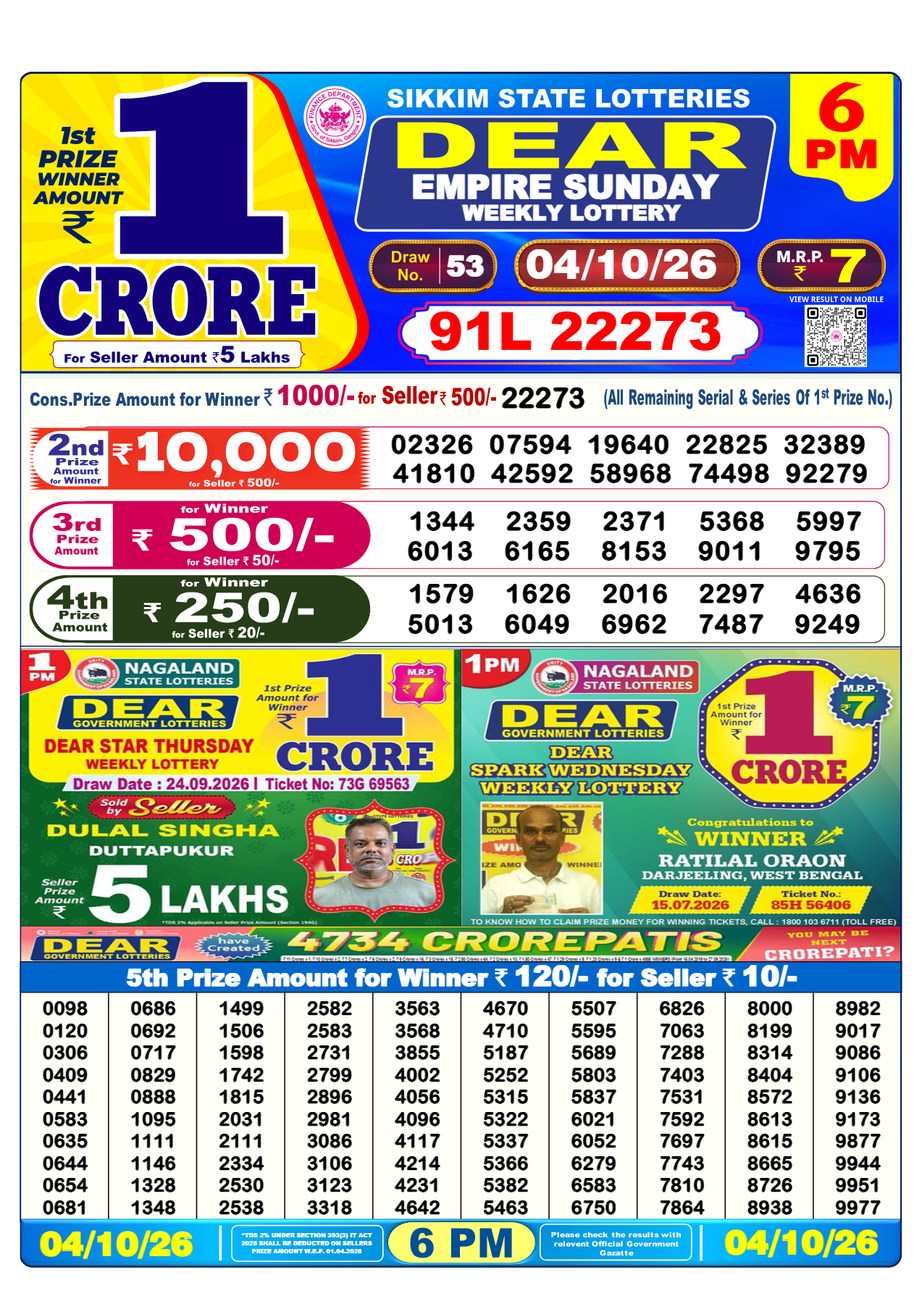
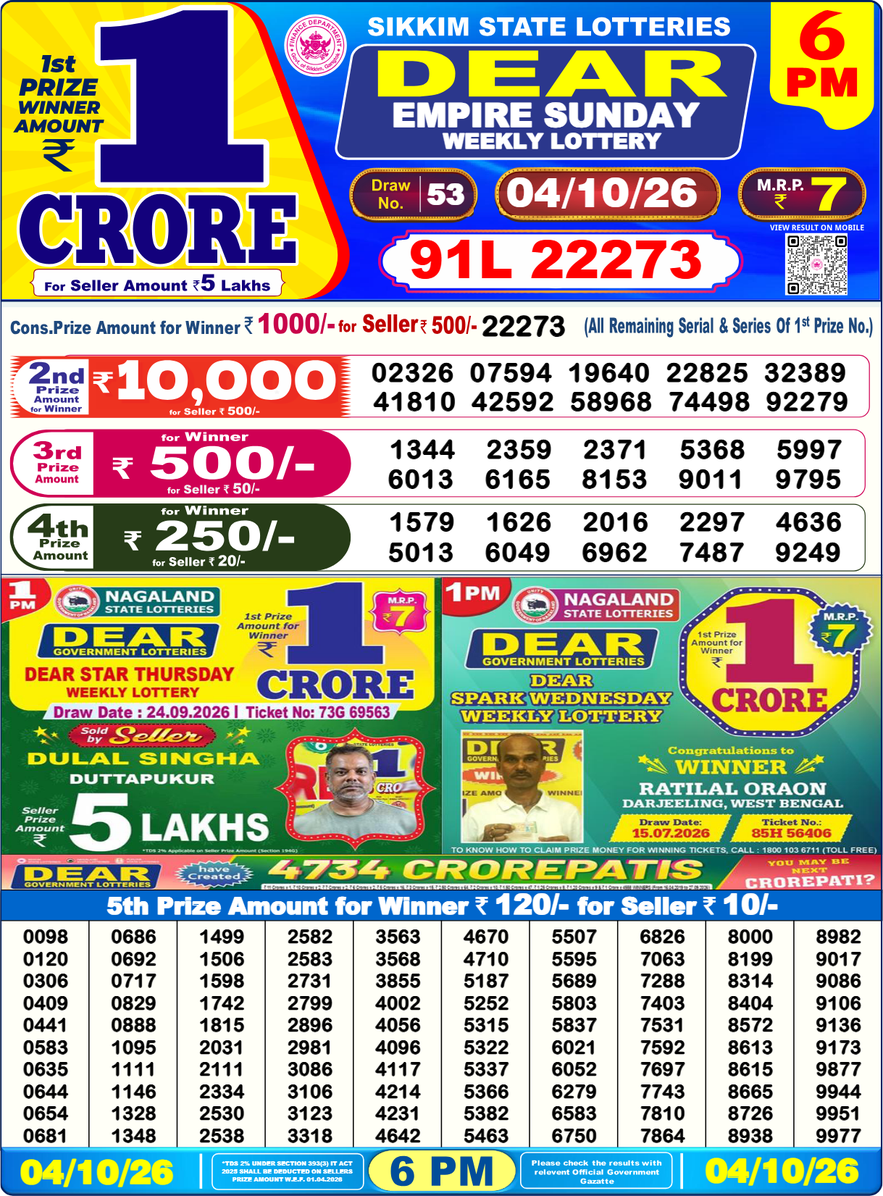
Match reference result layout with draw tabs and first-prize panel

diff --git a/index.html b/index.html
@@ -1,41 +1,42 @@
 <!doctype html>
-<html lang="en"><head>
-<meta charset="utf-8"><meta name="viewport" content="width=device-width,initial-scale=1"><meta name="theme-color" content="#122a30"><title>Lottery Sambad · Daily Results</title>
+<html lang="en-IN"><head>
+<meta charset="utf-8"><meta name="viewport" content="width=device-width,initial-scale=1"><meta name="theme-color" content="#e63223"><title>Lottery Sambad Today · 1 PM, 6 PM &amp; 8 PM Results</title>
 <style>
-:root{color-scheme:light;--ink:#152d33;--muted:#647479;--line:#dfe7e4;--green:#137962}*{box-sizing:border-box}body{margin:0;background:#f3f6f3;color:var(--ink);font:14px/1.5 system-ui,-apple-system,"Segoe UI",sans-serif}button{font:inherit;cursor:pointer}button:focus-visible{outline:3px solid #e8a342;outline-offset:4px}header{background:#122a30;color:white;border-top:4px solid #e6a147}.top{max-width:1250px;margin:auto;padding:24px 26px;display:flex;align-items:center;justify-content:space-between;gap:20px}.brand{display:flex;align-items:center;gap:13px}.mark{width:43px;height:43px;border:1px solid #ffffff30;border-radius:12px;display:grid;place-items:center;color:#f4bf72;background:#ffffff08;font-size:23px}.eyebrow{font-size:10px;letter-spacing:2px;text-transform:uppercase;color:#a9c5c4;margin:0 0 3px}h1{font-size:25px;line-height:1.2;letter-spacing:-.7px;margin:0}.clock{text-align:right}.clock strong{display:block;font-size:17px;font-variant-numeric:tabular-nums}.clock span{color:#b0c6c8;font-size:11px}main{max-width:1250px;margin:auto;padding:27px 26px 24px}.intro{display:flex;justify-content:space-between;align-items:center;gap:16px;margin-bottom:20px}.intro h2{font-size:22px;letter-spacing:-.5px;margin:0 0 2px}.intro p{margin:0;color:var(--muted);font-size:12px}.refresh{border:1px solid #d6dfdb;border-radius:8px;background:white;padding:8px 12px;color:var(--ink);font-size:12px}.refresh:disabled{opacity:.55;cursor:wait}.summary{margin:0 0 18px;display:flex;align-items:center;gap:8px;color:var(--muted);font-size:12px}.dot{width:7px;height:7px;border-radius:50%;background:var(--green);flex:none}.grid{display:grid;grid-template-columns:repeat(3,minmax(0,1fr));gap:18px}.card{background:white;border:1px solid var(--line);border-radius:13px;overflow:hidden;box-shadow:0 3px 14px #173b2c04}.card-top{padding:17px 18px 14px;border-bottom:1px solid #edf1ef;display:flex;justify-content:space-between;gap:10px;align-items:flex-start}.card h3{font-size:16px;letter-spacing:-.2px;margin:0}.draw-time{font-size:12px;color:var(--muted);margin:3px 0 0}.badge{font-size:10px;font-weight:650;white-space:nowrap;border-radius:5px;padding:4px 7px;color:#96651d;background:#fbf2e2}.badge.ready{color:#15725d;background:#e9f5ee}.badge.previous{color:#63737b;background:#edf1f3}.body{padding:13px 13px 0}.preview{width:100%;padding:9px;border:1px solid #e9eeeb;border-radius:7px;background:#fafbf9;display:flex;align-items:center;justify-content:center;min-height:365px;position:relative}.preview:hover{border-color:#9cafaa;background:#f1f5f0}.preview img{display:block;width:100%;height:355px;object-fit:contain}.zoom{position:absolute;right:8px;bottom:8px;font-size:10px;background:#173b32;color:white;padding:4px 7px;border-radius:4px}.placeholder{min-height:375px;display:flex;flex-direction:column;align-items:center;justify-content:center;gap:9px;background:repeating-linear-gradient(135deg,#fafbf9,#fafbf9 12px,#f7f9f6 12px,#f7f9f6 24px);border:1px dashed #dde5df;border-radius:7px;text-align:center;color:var(--muted);padding:20px}.placeholder svg{width:32px;height:32px;color:#a9b6ad}.placeholder strong{font-size:13px;color:var(--ink)}.placeholder span{font-size:11px;max-width:220px}.message{font-size:11px;line-height:1.6;color:var(--muted);padding:10px 4px 12px;margin:0;min-height:49px}.message.waiting{color:#96651d}.card-foot{border-top:1px solid #edf1ef;background:#fcfdfa;padding:10px 17px;display:flex;justify-content:space-between;gap:8px;color:var(--muted);font-size:10px}.schedule{margin:22px 0 0;padding:15px 17px;border:1px solid var(--line);border-radius:10px;display:flex;align-items:center;justify-content:space-between;gap:16px;background:#edf2ed}.schedule-title{font-size:12px;font-weight:650}.schedule-note{font-size:11px;color:var(--muted)}.times{display:flex;gap:23px}.times span{display:block;font-size:10px;color:var(--muted)}.times strong{font-size:12px;font-weight:650;white-space:nowrap}footer{max-width:1250px;margin:0 auto;padding:0 26px 22px;color:#85928b;display:flex;justify-content:space-between;font-size:10px}.modal{padding:0;border:0;border-radius:12px;width:min(1100px,94vw);max-height:94vh;background:white;color:var(--ink);box-shadow:0 25px 90px #0005}.modal::backdrop{background:#0c242be0}.modal-head{position:sticky;top:0;padding:12px 17px;background:white;display:flex;align-items:center;justify-content:space-between;border-bottom:1px solid var(--line);z-index:1}.close{border:1px solid var(--line);background:#f5f7f5;border-radius:6px;padding:5px 10px;font-size:12px}.full-pages{padding:12px;background:#eef2ed}.full-pages img{display:block;width:100%;height:auto;margin-bottom:12px}@media(max-width:850px){.grid{gap:11px}.card-top{padding:12px}.card h3{font-size:14px}.body{padding:9px 9px 0}.preview img{height:285px}.preview,.placeholder{min-height:305px}.badge{font-size:9px}.card-foot{padding:9px 11px}.times{gap:13px}}@media(max-width:620px){.top{padding:20px 18px}h1{font-size:22px}.mark{width:36px;height:36px}.clock strong{font-size:13px}.clock span{font-size:9px}.eyebrow{font-size:8px}main{padding:21px 16px}.intro h2{font-size:20px}.grid{grid-template-columns:1fr;gap:16px}.card-top{padding:14px 16px}.card h3{font-size:16px}.badge{font-size:10px}.body{padding:12px 12px 0}.preview img{height:370px}.preview,.placeholder{min-height:390px}.card-foot{padding:10px 16px}.schedule{align-items:flex-start;flex-direction:column;gap:10px}.times{justify-content:space-between;width:100%}footer{padding:0 18px 20px;gap:12px;font-size:9px}}
+*{box-sizing:border-box}body{margin:0;color:#15181d;background:white;font:16px/1.5 system-ui,-apple-system,"Segoe UI",sans-serif}button,select{font:inherit}button,select{cursor:pointer}button:focus-visible,select:focus-visible{outline:3px solid #ffd000;outline-offset:3px}header{height:72px;background:#e63223;color:white}.nav{max-width:557px;margin:auto;height:100%;padding:0 16px;display:flex;justify-content:space-between;align-items:center;gap:15px}.logo{font-size:34px;font-weight:900;line-height:1;letter-spacing:.2px;white-space:nowrap}.refresh{border:1px solid #ffffff70;border-radius:22px;background:transparent;color:white;width:35px;height:29px;padding:0;display:grid;place-items:center;font-size:22px}.refresh:disabled{opacity:.5}.wrap{max-width:557px;margin:auto;padding:0 16px}h1{font-size:23px;font-weight:850;line-height:1.3;text-align:center;margin:16px -25px 20px}.slots{display:flex;gap:20px;margin:0 0 20px}.slot{flex:1;min-width:0;min-height:44px;border:0;border-radius:8px;background:#138808;color:white;font-size:19px;font-weight:850}.slot[aria-pressed=true]{background:#138808;box-shadow:0 0 0 3px #13880824}.slot:hover{background:#107206}.summary{font-size:11px;text-align:center;color:#64748b;margin:0 0 15px}.winner{position:relative;min-height:115px;background:#fce8e9;border-radius:9px;overflow:hidden;display:flex;padding-right:40px}.winner[data-draw=MN]{background:#fff6db}.winner[data-draw=DN]{background:#eaf2ff}.winner-body{flex:1;min-width:0;padding:11px 24px 9px;position:relative}.pill{display:table;background:#244aff;color:white;font-size:11px;line-height:1;font-weight:850;border-radius:20px;padding:3px 9px}.number{margin:1px 0 0;text-align:center;font-size:50px;font-weight:850;color:#2c733c;line-height:1.15;white-space:nowrap;letter-spacing:.3px}.number.pending{font-size:23px;line-height:1.5;color:#475569;margin:4px 0}.updated{font-size:10px;color:#7c8fa8;text-align:center;margin:2px 0 0;min-height:15px}.band{position:absolute;top:0;right:0;bottom:0;width:40px;background:#e51f27;color:#ffd000;display:flex;align-items:center;justify-content:center;writing-mode:vertical-rl;transform:none}.band span{transform:rotate(180deg);font-size:23px;font-weight:900;white-space:nowrap}.arrow{position:absolute;left:4px;top:50%;transform:translateY(-50%);width:22px;height:30px;border:0;background:transparent;color:#18241e;padding:0;font-size:31px;line-height:1}.arrow.next{left:auto;right:4px}.controls{display:grid;grid-template-columns:1fr 1fr;gap:20px;margin:20px -16px 19px}.controls select,.date-control{min-height:43px;border:1px solid #ddd;border-radius:11px;background:#f4f4f4;color:#374151;font-size:18px;font-weight:750;line-height:1.2;text-align:center;padding:9px 14px}.controls select{width:100%;text-align-last:center}.date-control{display:flex;align-items:center;justify-content:center}.result-pages{width:100%}.sheet{margin:0 0 15px}.sheet-button{display:block;width:100%;padding:0;background:white;border:0;border-radius:7px;overflow:hidden}.sheet img{display:block;width:100%;height:auto}.page-label{margin:5px 0;color:#64748b;font-size:11px;text-align:center}.placeholder{min-height:340px;border:1px dashed #dbe2ec;background:#f8fafc;border-radius:8px;display:flex;flex-direction:column;align-items:center;justify-content:center;gap:8px;padding:25px;text-align:center}.placeholder svg{width:35px;color:#9ca9b9}.placeholder strong{font-size:19px}.placeholder p{color:#64748b;font-size:13px;margin:0;max-width:290px}.result-message{font-size:12px;text-align:center;color:#64748b;margin:12px 0}.result-message.waiting{color:#a35f14}.zoom-row{display:flex;justify-content:center;margin:12px 0 20px}.zoom{border:1px solid #dce2e9;background:#f1f5f9;color:#475569;border-radius:7px;font-size:12px;font-weight:650;padding:6px 13px}.schedule{border-top:1px solid #e6e9ee;padding-top:19px;margin:23px 0}.schedule h2{font-size:16px;text-align:center;margin:0 0 12px}.times{display:flex;justify-content:space-between;gap:13px}.times div{flex:1;text-align:center}.times span{display:block;color:#64748b;font-size:11px}.times strong{font-size:13px}.schedule-note{font-size:11px;text-align:center;color:#8791a1;margin:12px 0 0}footer{text-align:center;color:#8791a1;border-top:1px solid #eee;padding:20px 16px 26px;font-size:11px}.modal{padding:0;border:0;border-radius:10px;width:min(1250px,96vw);max-height:96vh;background:white}.modal::backdrop{background:#142033db}.modal-head{position:sticky;top:0;background:white;border-bottom:1px solid #ddd;padding:12px 16px;display:flex;justify-content:space-between;align-items:center;z-index:1}.modal-head strong{font-size:14px}.close{border:1px solid #ddd;background:#f4f4f4;border-radius:7px;padding:5px 10px;font-size:12px}.full-pages{padding:12px;background:#f1f5f9}.full-pages img{display:block;width:100%;height:auto;margin-bottom:12px}@media(max-width:600px){.logo{font-size:26px}h1{font-size:19px;margin:13px 0 20px}.slots{gap:20px}.number{font-size:clamp(34px,12.7vw,50px)}.controls{gap:20px;margin-left:0;margin-right:0}.controls select,.date-control{font-size:16px}.winner-body{padding-left:24px;padding-right:17px}}@media(max-width:365px){.logo{font-size:23px}.slots{gap:12px}.controls{gap:12px}.number{font-size:39px}.winner-body{padding-left:20px;padding-right:15px}.band span{font-size:20px}}
+.band span{font-size:21px;letter-spacing:-.4px;line-height:1}
 </style></head><body>
-<header><div class="top"><div class="brand"><div class="mark" aria-hidden="true">▤</div><div><p class="eyebrow">Three draws. One place.</p><h1>Lottery Sambad</h1></div></div><div class="clock"><strong id="clock">India time</strong><span>IST · Asia/Kolkata</span></div></div></header>
-<main><div class="intro"><div><h2>Daily results</h2><p id="date">Morning, evening &amp; night</p></div><button class="refresh" id="refresh" type="button">↻ Refresh</button></div><p class="summary" role="status"><span class="dot" aria-hidden="true"></span><span id="status">Loading the latest results…</span></p><section class="grid" id="draws" aria-label="All three draw results"></section><aside class="schedule"><div><div class="schedule-title">Daily download schedule</div><div class="schedule-note">Waiting PDFs are checked every 10 seconds while the downloader is running.</div></div><div class="times" id="times"></div></aside><noscript><p>Enable JavaScript to see all three results.</p></noscript></main>
-<footer><span>Results are provided by Lottery Sambad.</span><span>All dates &amp; times are in IST.</span></footer>
+<header><div class="nav"><span class="logo">LOTTERY SAMBAD</span><button class="refresh" id="refresh" type="button" aria-label="Refresh results">↻</button></div></header>
+<main class="wrap"><h1>Lottery Sambad Today · <span id="date">Daily Results</span></h1><nav class="slots" aria-label="Select a draw"><button type="button" class="slot" data-draw="MN" aria-pressed="false">1 PM</button><button type="button" class="slot" data-draw="DN" aria-pressed="false">6 PM</button><button type="button" class="slot" data-draw="EN" aria-pressed="true">8 PM</button></nav>
+<p class="summary" id="status" role="status">Loading results…</p>
+<section class="winner" id="winner" data-draw="EN" aria-label="Selected draw first prize"><div class="winner-body"><span class="pill" id="result-date">Today</span><button class="arrow" id="previous" type="button" aria-label="Previous draw">‹</button><div class="number pending" id="number">Waiting for result</div><p class="updated" id="updated">India time</p><button class="arrow next" id="next" type="button" aria-label="Next draw">›</button></div><div class="band"><span id="band">DEAR 8 PM</span></div></section>
+<div class="controls"><select id="draw-select" aria-label="Draw time"><option value="MN">1:00 PM</option><option value="DN">6:00 PM</option><option value="EN" selected>8:00 PM</option></select><span class="date-control" id="date-control">Today</span></div>
+<section id="pages" class="result-pages" aria-label="Selected result sheet"></section><p class="result-message" id="message"></p><div class="zoom-row"><button type="button" class="zoom" id="zoom" hidden>View full size ↗</button></div>
+<section class="schedule"><h2>Daily download schedule</h2><div class="times"><div><span>Morning · MN</span><strong>1:10 PM IST</strong></div><div><span>Evening · DN</span><strong>6:10 PM IST</strong></div><div><span>Night · EN</span><strong>8:10 PM IST</strong></div></div><p class="schedule-note">Missing PDFs are checked every 10 seconds while the downloader runs.</p></section><noscript>Enable JavaScript to see the results.</noscript></main>
+<footer>Lottery Sambad · All dates and times are in IST.</footer>
 <dialog class="modal" id="viewer" aria-labelledby="viewer-title"><div class="modal-head"><strong id="viewer-title">Full result</strong><button class="close" id="close" type="button">Close ✕</button></div><div class="full-pages" id="full-pages"></div></dialog>
 <script>
 (()=>{
- const definitions=[{id:'MN',label:'Morning',drawTime:'13:00',downloadTime:'13:10'},{id:'DN',label:'Evening',drawTime:'18:00',downloadTime:'18:10'},{id:'EN',label:'Night',drawTime:'20:00',downloadTime:'20:10'}];
- const status=document.querySelector('#status'),refreshButton=document.querySelector('#refresh'),viewer=document.querySelector('#viewer'),cards=new Map();let busy=false,loaded=false;
+ const definitions=[{id:'MN',label:'Morning',drawTime:'13:00',downloadTime:'13:10',short:'1 PM'},{id:'DN',label:'Evening',drawTime:'18:00',downloadTime:'18:10',short:'6 PM'},{id:'EN',label:'Night',drawTime:'20:00',downloadTime:'20:10',short:'8 PM'}];
+ const status=document.querySelector('#status'),refreshButton=document.querySelector('#refresh'),viewer=document.querySelector('#viewer');let busy=false,loaded=false,selected='EN',manual=false,current='',imageFailed=false,draws=definitions.map(draw=>({...draw,status:'scheduled',result:null}));
+ const indiaDate=()=>new Intl.DateTimeFormat('en-CA',{timeZone:'Asia/Kolkata',year:'numeric',month:'2-digit',day:'2-digit'}).format(new Date());
+ const displayDate=date=>new Intl.DateTimeFormat('en-GB',{timeZone:'Asia/Kolkata',day:'2-digit',month:'short',year:'numeric'}).format(new Date(`${date}T12:00:00+05:30`));
+ const shortDate=(date,separator)=>date.slice(8)+separator+date.slice(5,7)+separator+date.slice(2,4);
  const timeLabel=time=>{const [hour,minute]=time.split(':').map(Number);return `${hour%12||12}:${String(minute).padStart(2,'0')} ${hour>=12?'PM':'AM'}`;};
- const dateLabel=date=>new Intl.DateTimeFormat('en-IN',{timeZone:'Asia/Kolkata',day:'numeric',month:'long',year:'numeric'}).format(new Date(`${date}T12:00:00+05:30`));
- const today=()=>new Intl.DateTimeFormat('en-CA',{timeZone:'Asia/Kolkata',year:'numeric',month:'2-digit',day:'2-digit'}).format(new Date());
- const clockIcon='<svg viewBox="0 0 24 24" fill="none" stroke="currentColor" stroke-width="1.4" aria-hidden="true"><circle cx="12" cy="12" r="8"/><path d="M12 7v5l3 2"/></svg>';
- function openResult(draw){document.querySelector('#viewer-title').textContent=`${draw.label} · ${timeLabel(draw.drawTime)} · ${dateLabel(draw.result.date)}`;const container=document.querySelector('#full-pages');container.replaceChildren();draw.result.pages.forEach((page,index)=>{const img=document.createElement('img');img.src=page.src;img.alt=`${draw.label} full result, page ${index+1}`;img.width=page.width;img.height=page.height;container.append(img);});viewer.showModal();}
- function render(draw){
-  let card=cards.get(draw.id);if(!card){card=document.createElement('article');card.className='card';card.dataset.draw=draw.id;document.querySelector('#draws').append(card);cards.set(draw.id,card);}
-  const signature=JSON.stringify(draw);if(card.dataset.signature===signature&&!card.dataset.failed)return;card.dataset.signature=signature;delete card.dataset.failed;
-  card.innerHTML='<div class="card-top"><div><h3></h3><p class="draw-time"></p></div><span class="badge"></span></div><div class="body"><div class="image-area"></div><p class="message"></p></div><div class="card-foot"><span class="download-time"></span><span class="updated"></span></div>';
-  card.querySelector('h3').textContent=draw.label;card.querySelector('.draw-time').textContent=`${timeLabel(draw.drawTime)} draw · ${draw.id}`;
-  const ready=draw.result?.date===today(),badge=card.querySelector('.badge'),message=card.querySelector('.message'),area=card.querySelector('.image-area');
-  badge.textContent=ready?'Published':draw.result?'Previous result':draw.status==='scheduled'?'Scheduled':'Waiting for PDF';badge.classList.toggle('ready',ready);badge.classList.toggle('previous',!!draw.result&&!ready);
-  card.querySelector('.download-time').textContent=`Download: ${timeLabel(draw.downloadTime)}`;card.querySelector('.updated').textContent=draw.result?.updatedAt?`Saved ${new Intl.DateTimeFormat('en-IN',{timeZone:'Asia/Kolkata',hour:'numeric',minute:'2-digit'}).format(new Date(draw.result.updatedAt))}`:'IST';
-  if(draw.result){const button=document.createElement('button');button.className='preview';button.type='button';button.setAttribute('aria-label',`View full ${draw.label.toLowerCase()} result`);const img=document.createElement('img'),page=draw.result.pages[0];img.src=page.src;img.width=page.width;img.height=page.height;img.alt=`Lottery Sambad ${draw.label.toLowerCase()} result for ${draw.result.date}`;img.addEventListener('error',()=>{card.dataset.failed='1';message.textContent='Image unavailable. Retrying shortly.';message.classList.add('waiting');});const zoom=document.createElement('span');zoom.className='zoom';zoom.textContent=draw.result.pages.length>1?`View ${draw.result.pages.length} pages ↗`:'View full result ↗';button.append(img,zoom);button.addEventListener('click',()=>openResult(draw));area.append(button);message.textContent=ready?`Result for ${dateLabel(draw.result.date)}. Tap the image to enlarge.`:`Showing ${dateLabel(draw.result.date)}. ${draw.status==='scheduled'?`Today’s download starts at ${timeLabel(draw.downloadTime)}.`:'Today’s PDF is not available yet. Waiting for the publisher.'}`;}
-  else{const placeholder=document.createElement('div');placeholder.className='placeholder';placeholder.innerHTML=clockIcon+'<strong></strong><span></span>';placeholder.querySelector('strong').textContent=draw.status==='scheduled'?'Result scheduled':'PDF not available yet';placeholder.querySelector('span').textContent=draw.status==='scheduled'?`The download starts at ${timeLabel(draw.downloadTime)} IST.`:'We are waiting for the publisher to upload this result.';area.append(placeholder);message.textContent=draw.status==='scheduled'?'This draw has not reached its download time.':'The downloader will retry every 10 seconds while running.';}
-  message.classList.toggle('waiting',!ready&&draw.status!=='scheduled');
+ function openResult(){const draw=draws.find(draw=>draw.id===selected);if(!draw.result)return;document.querySelector('#viewer-title').textContent=`DEAR ${draw.short} · ${displayDate(draw.result.date)}`;const container=document.querySelector('#full-pages');container.replaceChildren();draw.result.pages.forEach((page,index)=>{const img=document.createElement('img');img.src=page.src;img.alt=`Full ${draw.short} result, page ${index+1}`;img.width=page.width;img.height=page.height;container.append(img);});viewer.showModal();}
+ function render(){
+  const draw=draws.find(item=>item.id===selected),signature=JSON.stringify({draw,today:indiaDate()});document.querySelectorAll('.slot').forEach(button=>button.setAttribute('aria-pressed',String(button.dataset.draw===selected)));document.querySelector('#draw-select').value=selected;document.querySelector('#winner').dataset.draw=selected;document.querySelector('#band').textContent=`DEAR ${draw.short}`;
+  if(signature===current&&!imageFailed)return;current=signature;imageFailed=false;
+  const result=draw.result,number=document.querySelector('#number'),message=document.querySelector('#message'),pages=document.querySelector('#pages');pages.replaceChildren();
+  document.querySelector('#result-date').textContent=shortDate(result?.date||indiaDate(),'/');document.querySelector('#date-control').textContent=shortDate(result?.date||indiaDate(),'.');
+  const prize=result?.firstPrize;number.textContent=prize?`${prize.series} ${prize.number}`:result?'Result published':draw.status==='scheduled'?'Result scheduled':'PDF not available yet';number.classList.toggle('pending',!prize);
+  document.querySelector('#updated').textContent=result?.updatedAt?`Last updated: ${displayDate(result.date)}, ${new Intl.DateTimeFormat('en-IN',{timeZone:'Asia/Kolkata',hour:'numeric',minute:'2-digit'}).format(new Date(result.updatedAt))}`:`Download starts at ${timeLabel(draw.downloadTime)} IST`;
+  document.querySelector('#zoom').hidden=!result;
+  if(result){result.pages.forEach((page,index)=>{const figure=document.createElement('figure');figure.className='sheet';const button=document.createElement('button');button.type='button';button.className='sheet-button';button.setAttribute('aria-label',`View full ${draw.short} result, page ${index+1}`);const img=document.createElement('img');img.src=page.src;img.width=page.width;img.height=page.height;img.alt=`Lottery Sambad ${draw.short} result ${displayDate(result.date)}`;img.addEventListener('error',()=>{imageFailed=true;message.textContent='The result image could not load. Retrying shortly.';message.classList.add('waiting');});button.append(img);button.addEventListener('click',openResult);figure.append(button);if(result.pages.length>1){const caption=document.createElement('figcaption');caption.className='page-label';caption.textContent=`Page ${index+1} of ${result.pages.length}`;figure.append(caption);}pages.append(figure);});message.textContent=result.date===indiaDate()?'Tap the result sheet to view it at full size.':`Showing ${displayDate(result.date)}. ${draw.status==='scheduled'?`Today’s download starts at ${timeLabel(draw.downloadTime)} IST.`:'Today’s PDF is not available yet. Waiting for the publisher.'}`;}
+  else{const placeholder=document.createElement('div');placeholder.className='placeholder';placeholder.innerHTML='<svg viewBox="0 0 24 24" fill="none" stroke="currentColor" stroke-width="1.4" aria-hidden="true"><circle cx="12" cy="12" r="8"/><path d="M12 7v5l3 2"/></svg><strong></strong><p></p>';placeholder.querySelector('strong').textContent=draw.status==='scheduled'?'Result scheduled':'PDF not available yet';placeholder.querySelector('p').textContent=draw.status==='scheduled'?`We will start downloading this draw at ${timeLabel(draw.downloadTime)} IST.`:'Waiting for the publisher. The downloader retries every 10 seconds while running.';pages.append(placeholder);message.textContent='The result will appear here as soon as it is available.';}
+  message.classList.toggle('waiting',draw.status==='pending');
  }
- function validate(data){
-  if(!/^\d{4}-\d{2}-\d{2}$/.test(data.date)||!Array.isArray(data.draws)||data.draws.length!==3)throw Error('The result data is invalid. Please check again later.');
-  for(const expected of definitions){const draw=data.draws.find(item=>item.id===expected.id);if(!draw||!['ready','pending','scheduled'].includes(draw.status))throw Error('The result data is invalid.');if(draw.result){const result=draw.result,prefix=new URL(`images/results/${result.date}/${draw.id}/`,location.href).pathname;if(!/^\d{4}-\d{2}-\d{2}$/.test(result.date)||!Array.isArray(result.pages)||!result.pages.length||result.pages.length>10||!result.pages.every(page=>{const url=new URL(page.src,location.href);return url.origin===location.origin&&url.pathname.startsWith(prefix)&&/^page-[1-9][0-9]*\.png$/.test(url.pathname.slice(prefix.length))&&!url.search&&!url.hash&&Number.isInteger(page.width)&&page.width>0&&page.width<=1800&&Number.isInteger(page.height)&&page.height>0&&page.height<=1800;}))throw Error('The result data is invalid. Please check again later.');}}
-  return definitions.map(expected=>({...data.draws.find(item=>item.id===expected.id),...expected}));
- }
- async function refresh(){if(busy||document.hidden)return;busy=true;refreshButton.disabled=true;try{if(location.protocol==='file:')throw Error('Open the published website to view the results.');const response=await fetch(new URL('result.json',location.href),{cache:'no-cache',signal:AbortSignal.timeout(15000)});if(!response.ok)throw Error('Results are not available yet. Please check again shortly.');const data=await response.json(),draws=validate(data);draws.forEach(render);loaded=true;document.querySelector('#date').textContent=`${dateLabel(today())} · All three draws`;const ready=draws.filter(draw=>draw.result?.date===today()).length;status.textContent=ready===3?'All three results are published for today.':`${ready} of 3 results published today. Remaining results will appear when available.`;}catch(error){status.textContent=(loaded?'Showing the saved results. ':'')+(error.name==='TimeoutError'?'The request timed out. Retrying shortly.':error.message);}finally{busy=false;refreshButton.disabled=false;}}
- definitions.forEach(draw=>render({...draw,status:'scheduled',result:null}));document.querySelector('#times').replaceChildren(...definitions.map(draw=>{const item=document.createElement('div'),label=document.createElement('span'),time=document.createElement('strong');label.textContent=draw.label;time.textContent=`${timeLabel(draw.downloadTime)} IST`;item.append(label,time);return item;}));
- function updateClock(){document.querySelector('#clock').textContent=new Intl.DateTimeFormat('en-IN',{timeZone:'Asia/Kolkata',hour:'numeric',minute:'2-digit',second:'2-digit'}).format(new Date());}updateClock();setInterval(updateClock,1000);refresh();refreshButton.addEventListener('click',refresh);document.querySelector('#close').addEventListener('click',()=>viewer.close());viewer.addEventListener('click',event=>{if(event.target===viewer)viewer.close();});if(location.protocol!=='file:'){setInterval(refresh,10000);document.addEventListener('visibilitychange',()=>{if(!document.hidden)refresh();});}
+ function validate(data){if(!/^\d{4}-\d{2}-\d{2}$/.test(data.date)||!Array.isArray(data.draws)||data.draws.length!==3)throw Error('The result data is invalid.');for(const definition of definitions){const draw=data.draws.find(item=>item.id===definition.id);if(!draw||!['ready','pending','scheduled'].includes(draw.status))throw Error('The result data is invalid.');if(draw.result){const result=draw.result,prefix=new URL(`images/results/${result.date}/${draw.id}/`,location.href).pathname;if(!/^\d{4}-\d{2}-\d{2}$/.test(result.date)||!Array.isArray(result.pages)||!result.pages.length||result.pages.length>10||!result.pages.every(page=>{const url=new URL(page.src,location.href);return url.origin===location.origin&&url.pathname.startsWith(prefix)&&/^page-[1-9][0-9]*\.png$/.test(url.pathname.slice(prefix.length))&&!url.search&&!url.hash&&Number.isInteger(page.width)&&page.width>0&&page.width<=1800&&Number.isInteger(page.height)&&page.height>0&&page.height<=1800;}))throw Error('The result data is invalid.');if(result.firstPrize&&(!/^\d{2}[A-Z]$/.test(result.firstPrize.series)||!/^\d{5}$/.test(result.firstPrize.number)))throw Error('The result data is invalid.');}}return definitions.map(definition=>({...data.draws.find(item=>item.id===definition.id),...definition}));}
+ async function refresh(){if(busy||document.hidden)return;busy=true;refreshButton.disabled=true;try{if(location.protocol==='file:')throw Error('Open the published website to view the results.');const response=await fetch(new URL('result.json',location.href),{cache:'no-cache',signal:AbortSignal.timeout(15000)});if(!response.ok)throw Error('Results are not available yet. Please check again shortly.');draws=validate(await response.json());loaded=true;if(!manual)selected=draws.filter(draw=>draw.result?.date===indiaDate()).at(-1)?.id||draws.filter(draw=>draw.result).at(-1)?.id||'MN';render();const count=draws.filter(draw=>draw.result?.date===indiaDate()).length;status.textContent=count===3?'All three results published today.':`${count} of 3 results published today. Waiting for remaining PDFs.`;}catch(error){status.textContent=(loaded?'Showing the saved results. ':'')+(error.name==='TimeoutError'?'The request timed out. Retrying shortly.':error.message);}finally{busy=false;refreshButton.disabled=false;}}
+ function select(id){selected=id;manual=true;render();}document.querySelectorAll('.slot').forEach(button=>button.addEventListener('click',()=>select(button.dataset.draw)));document.querySelector('#draw-select').addEventListener('change',event=>select(event.target.value));document.querySelector('#previous').addEventListener('click',()=>select(definitions[(definitions.findIndex(draw=>draw.id===selected)+2)%3].id));document.querySelector('#next').addEventListener('click',()=>select(definitions[(definitions.findIndex(draw=>draw.id===selected)+1)%3].id));document.querySelector('#zoom').addEventListener('click',openResult);refreshButton.addEventListener('click',refresh);document.querySelector('#close').addEventListener('click',()=>viewer.close());viewer.addEventListener('click',event=>{if(event.target===viewer)viewer.close();});document.querySelector('#date').textContent=displayDate(indiaDate());render();refresh();if(location.protocol!=='file:'){setInterval(refresh,10000);document.addEventListener('visibilitychange',()=>{if(!document.hidden)refresh();});}
 })();
 </script></body></html>

diff --git a/README.md b/README.md
@@ -10,9 +10,13 @@ starts at **1:10 PM (MN), 6:10 PM (DN), and 8:10 PM (EN), all IST**, on pushes t
 while running, stops contacting a draw's source once its PDF has been saved,
 and stops retrying that day's missing results at midnight IST.
 
-The compact website shows all three draws, preserves each previous result, displays
-a waiting message for missing PDFs, and lets visitors enlarge an image without
-opening the original PDF. It refreshes result metadata every ten seconds.
+The website uses a red header, green 1 PM / 6 PM / 8 PM buttons, a first-prize
+number panel, and a centered result sheet. The latest available draw is selected
+initially; buttons, arrows, and the draw selector switch between all three draws.
+Winning numbers come from each original PDF's text. Blank PDF margins are removed
+from the displayed sheet. Previous results stay available, missing PDFs show a
+waiting message, and images can be enlarged without an original-PDF link.
+The website refreshes result metadata every ten seconds.
 
 GitHub schedules can start late. Hosted jobs cannot run for more than six hours,
 so each polling run lasts at most 330 minutes; hourly recovery runs resume polling
